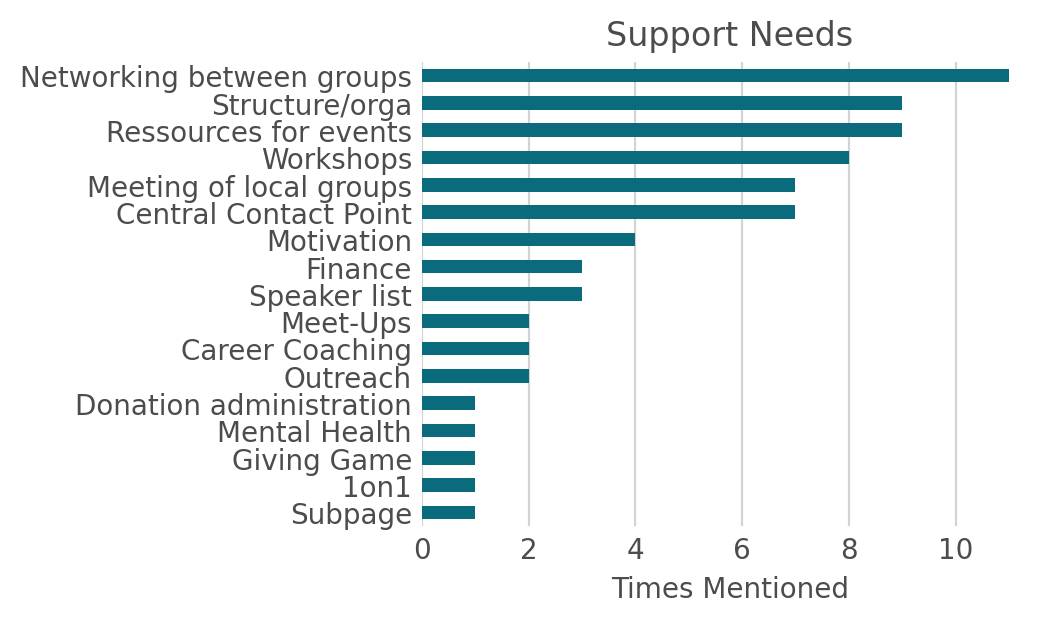
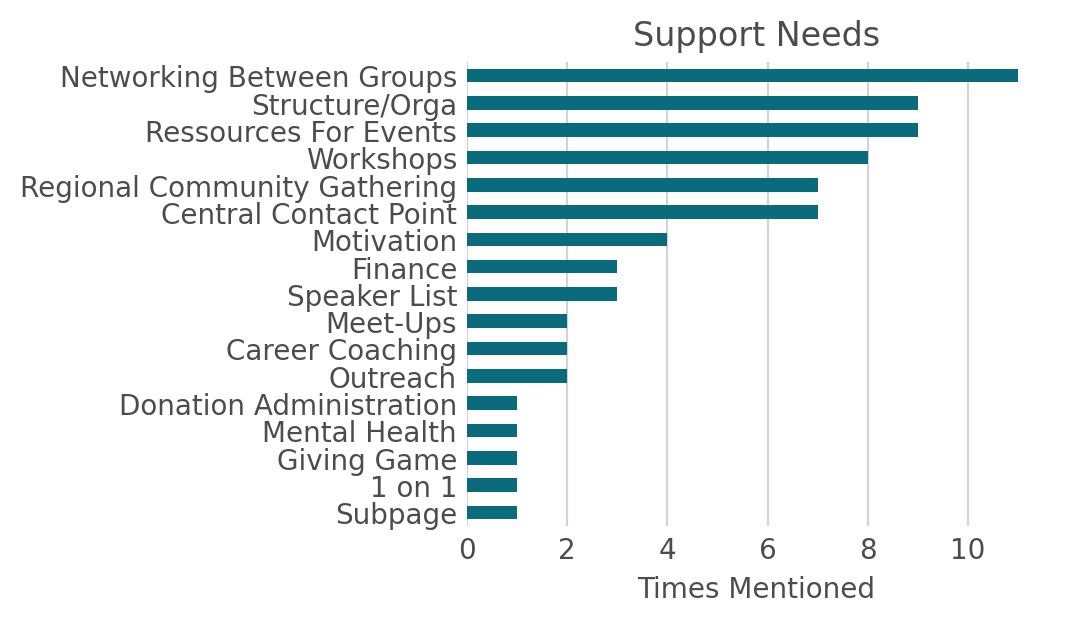
Capitalized everything

diff --git a/analysis.py b/analysis.py
@@ -9,12 +9,16 @@ import pandas as pd
 from matplotlib.ticker import MaxNLocator
 import seaborn as sns
 
+# Create the barplots for all categorical topics
 kinds = {"group_activities":"Activities", "group_contacts":"Contacts", "group_topics":"Topics", "support_needs":"Support Needs"}
 for key, val in kinds.items():
     activities = pd.read_csv(key + ".csv", sep=";", encoding="'latin-1'")
+
     ax = activities.sum().sort_values().plot(kind="barh", color="#0A6B7C", zorder=5)
+    # Add labels
     ax.set_title(val, alpha=0.7)
     ax.set_xlabel("Times Mentioned", alpha=0.7)
+    # Everything after this is just for layout. 
     ax.xaxis.grid(True, color="lightgrey")
     ax.tick_params(axis=u'both', which=u'both',length=0)
     for spine in ax.spines.values():
@@ -28,25 +32,31 @@ for key, val in kinds.items():
     plt.savefig(key+".png", dpi=200, bbox_inches="tight")
     plt.close()
 
-
+# Create the plots for the numerical topics
 meta = pd.read_csv("group_meta.csv", sep=";", encoding="'latin-1'")
 main = meta[['Number of core group members', 'Number of total group members',
        'Founding year', 
        'Meetings per month', 
        'CEA Funding']]
+main.columns = map(str.title, main.columns)
+
+
 
 fig, axes = plt.subplots(nrows=5)
 for ax, col in zip(axes, main.columns):
-    ax = sns.boxplot(x=col,data=main,color="steelblue", zorder=6,ax=ax)
+    ax = sns.swarmplot(x=col,data=main,color="#0A6B7C", zorder=6,ax=ax)
     plt.setp(ax.get_xticklabels(), alpha=0.7)
     plt.setp(ax.get_yticklabels(), alpha=0.7)
+    ax.set_title(col, alpha=0.7)    
+    ax.set_xlabel("")
+
 #    ax.xaxis.grid(True, color="lightgrey", zorder=0)
     ax.tick_params(axis=u'both', which=u'both',length=0)
     for spine in ax.spines.values():
             spine.set_color("grey")
             
             
-fig.set_size_inches(10,10)
+fig.set_size_inches(12,6)
 fig.tight_layout()
 plt.savefig("meta_1.png", dpi=200)
 plt.close()
